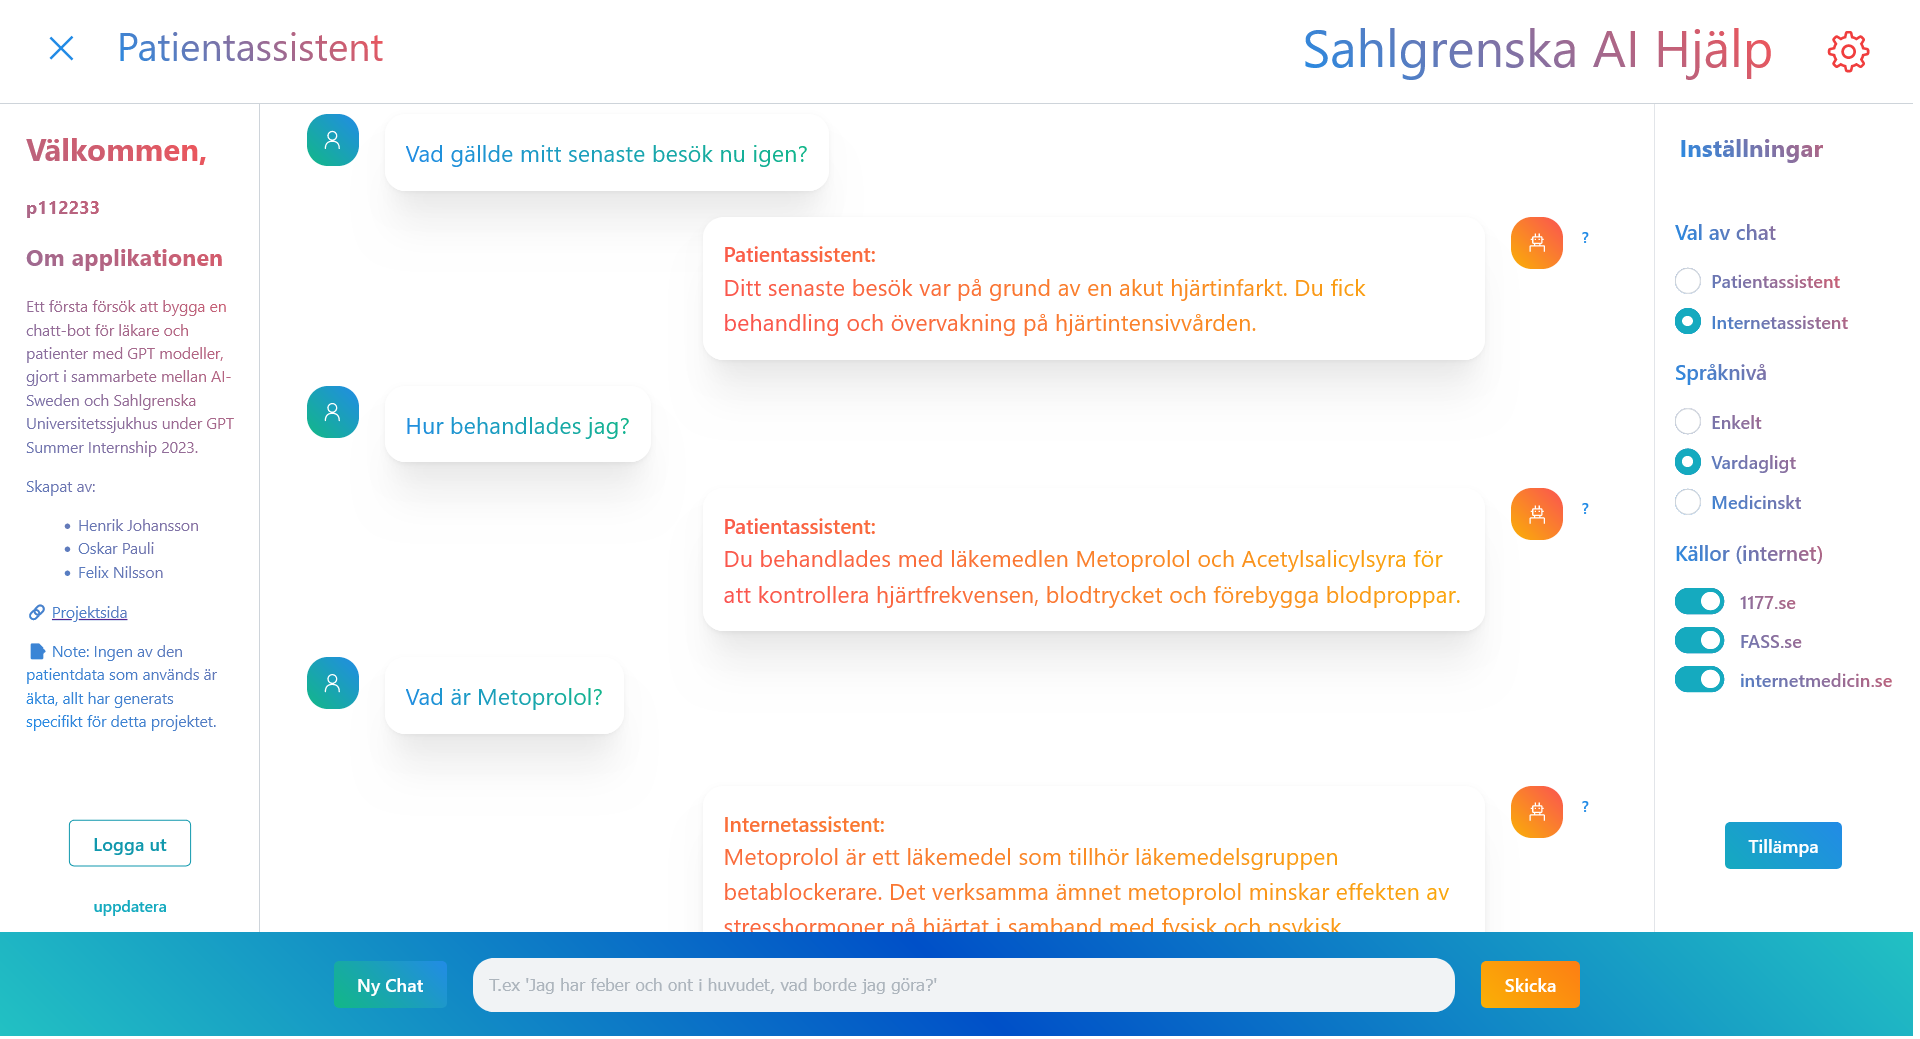
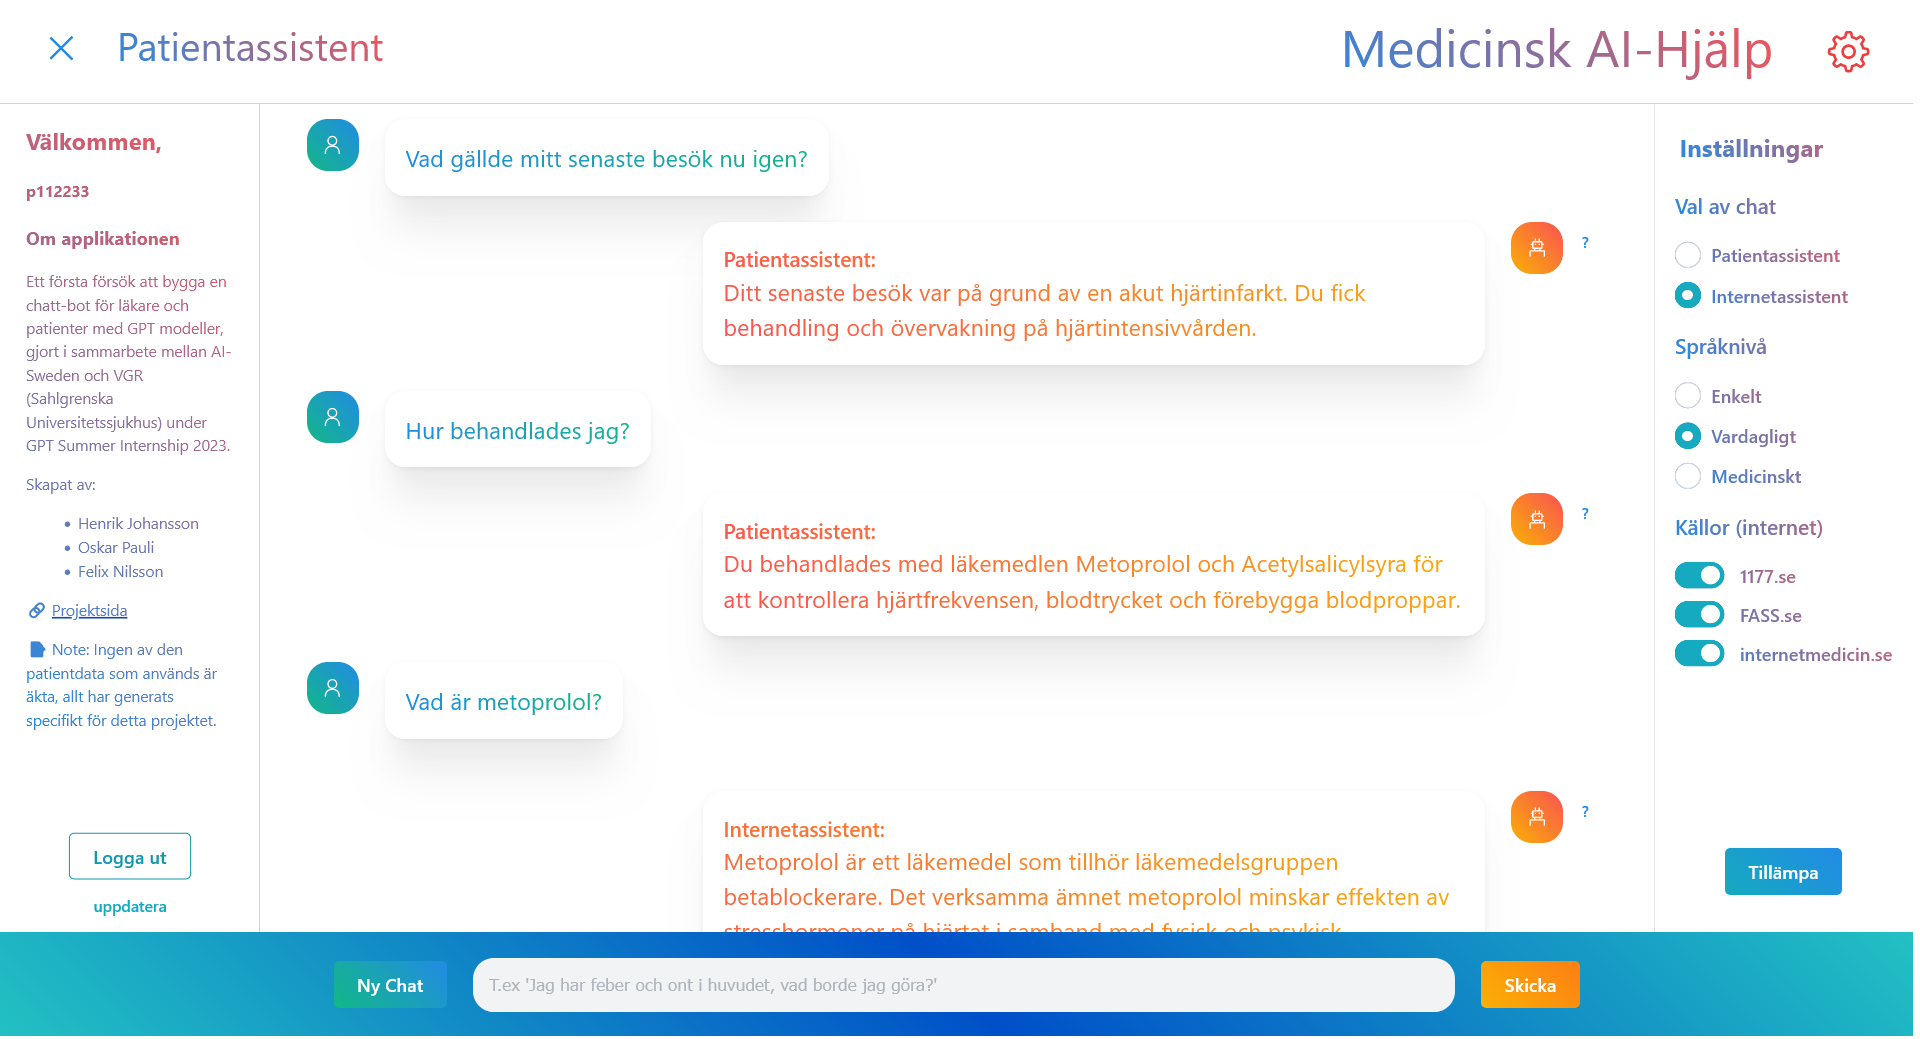
:hammer: Updated images and readme description

diff --git a/README.md b/README.md
@@ -3,7 +3,7 @@
 
 
 <p align="center">
-  <img src="img/SAH.png" />
+  <img src="img/MAIH.png" />
 </p>
 
 <p align="center">
@@ -52,15 +52,21 @@ As part of the project we also were tasked with writing a set of guidelines
 
 ## 📋 Description
 
-Medicinsk AI-Hjälp is designed with three users in mind:
+Medicinsk AI-Hjälp is designed with two users in mind:
 
 * Medical Staff: doctors, nurses
 * Patients, caretakers of patients
-* Anonymous Users
 
-Medical staff (currently just doctors) and patients require a login, with the difference being that a patient has access to a single directory of documents, their own, whereas doctors can access a list of patients documents. In addition to this doctors can use a chatbot which has access administrative documents, like contact information and roles within different departments.
+Both kinds of users are required to login to use the service.
+When logged in they can access some of the available chat-bots depending on their role.
+Medical staff (mainly focused towards doctors at this time) can access the chat-bots:
+- "Doctor's assistant", that can help them find information about specific patients.
+- "Intranet assistant", that can help them find information, such as contact information, etc. that exists on an intranet.
+- "Internet assistant", that can help them find information about deceases, injuries or medicines from trusted sources, such as [1177.se](https://www.1177.se), [FASS.se](https://www.fass.se) and [Internetmedicin.se](https://internetmedicin.se).
 
-The anonymous users can access a single chatbot, designed to take general health questions and find information on selected websites using agents from LangChain.
+Patients can access the chat-bots:
+- "Patient assistant", similar to the "Doctor's assistant" with the only difference being that patients can only access their own medical records.
+- "Internet assistant", the same as for medical staff.
 
 ---
 
